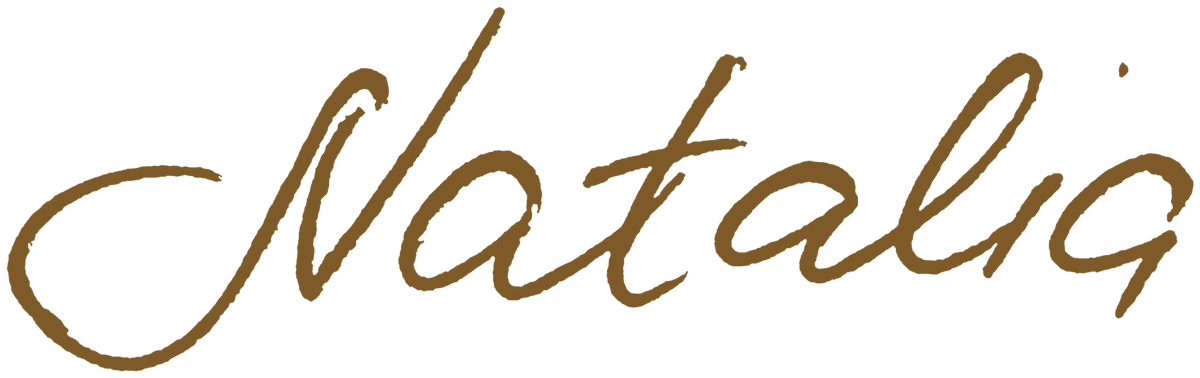
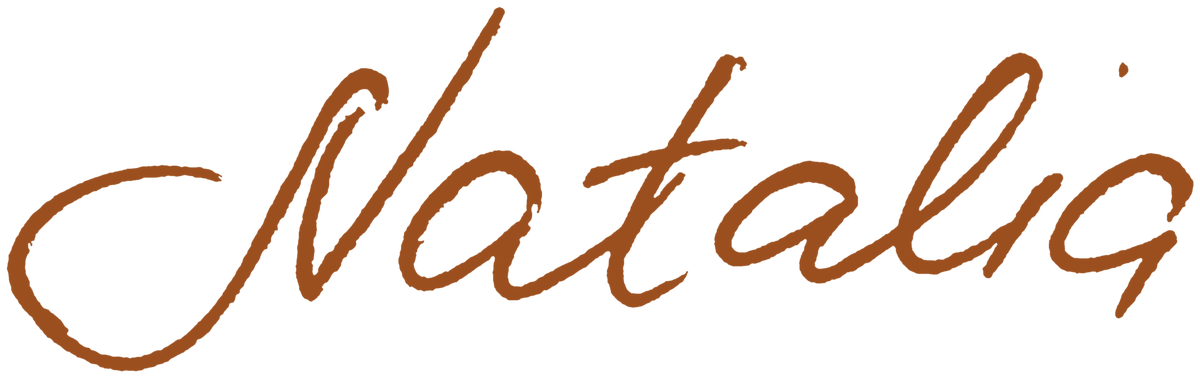
Signature image in the button orange
Claude-Session: https://claude.ai/code/session_01UfFkfZgZF3D5tpH6aeswqG

diff --git a/about.html b/about.html
@@ -78,7 +78,7 @@ img{max-width:100%}
 </div>
 <div style="flex: 7 1 420px; min-width: 0;">
 <p class="dropcap" style="margin: 0 0 20px; max-width: 640px; font-size: 18px; line-height: 1.65;">My family has a history of gut problems, and in my 20s they started for me too. Bloating, brain fog, foods that didn't agree with me, skin flare-ups, difficult cycles, catching every bug going. I had it all.</p><p style="margin: 0 0 20px; max-width: 640px; font-size: 17px; line-height: 1.65;">I tried one approach after another and felt hopeless. Nothing looked at the whole picture, and I wasn't listening to my body. What helped most was not another rule. It was finally understanding how food, stress and sleep work together in my own body, and what may be behind how I felt.</p><p style="margin: 0 0 20px; max-width: 640px; font-size: 17px; line-height: 1.65;">That is why I trained as a nutritional therapist, and then as a wellness coach. I start with food and look at the whole picture: stress, sleep and daily habits too. Knowing what to do is only half of it. The other half is making it work in a real, busy week.</p><p style="margin: 0 0 0px; max-width: 640px; font-size: 17px; line-height: 1.65;">The women I work with often tell me a story like mine: tired, bloated, overwhelmed by advice, and quietly blaming themselves. I've been there. With me, you won't be judged, and you won't have to work it out alone.</p>
-<div style="margin-top: 28px;"><img src="images/7a4e7f6c671df0413928626e9d0a021c.png" alt="Natalia's signature" style="display: block; width: clamp(190px, 20vw, 250px); height: auto;"></div>
+<div style="margin-top: 28px;"><img src="images/7a4e7f6c671df0413928626e9d0a021c.png?v=2" alt="Natalia's signature" style="display: block; width: clamp(190px, 20vw, 250px); height: auto;"></div>
 </div>
 </div>
 </section>
